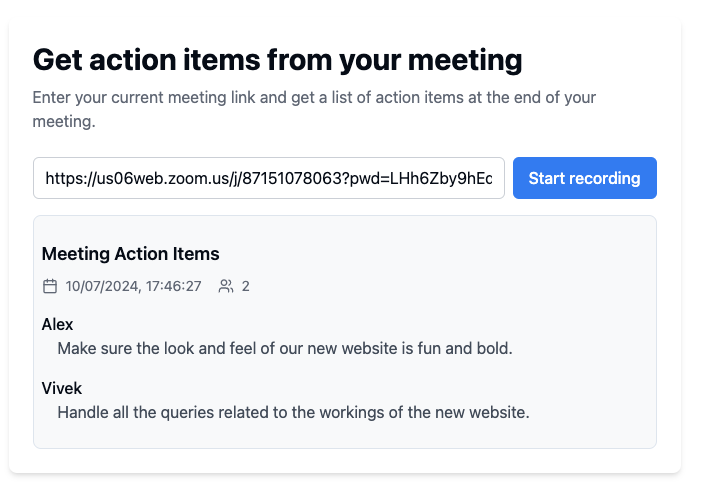
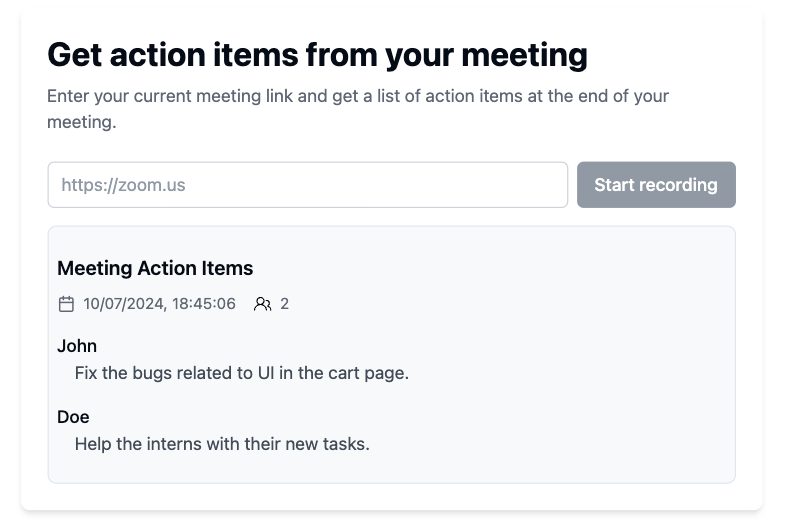
fix bugs

diff --git a/client-app/src/components/MeetingActionItems.tsx b/client-app/src/components/MeetingActionItems.tsx
@@ -67,7 +67,7 @@ interface ActionItem {
     </div>
   );
 
-const POLLING_INTERVAL = 5000; // Poll every 5 seconds
+const POLLING_INTERVAL = 10000; // Poll every 10 seconds
 
 const MeetingActionItems = () => {
   const [meetingLink, setMeetingLink] = useState('');
@@ -83,20 +83,6 @@ const MeetingActionItems = () => {
     setActionItems([]);
     try {
       const response = await axios.post(`${API_BASE_URL}/create_bot`, { meetingLink });
-    //   const x = [
-    //     { Alex: 'Take care of the portal.' },
-    //     { Alex: 'Take care of the webinar.' },
-    //     { Alex: 'Go to the city and take care of all stuff there.' },
-    //     { 'Vivek Sahu': 'Take care of all the remaining bits.' }
-    //   ]
-
-    //   const transformedArray: ActionItem[] = response.data.action_items.map((item:ActionItem) => {
-    //     const name = Object.keys(item)[0]; // Get the name (key)
-    //     const action = (item as any)[name]; // Get the action (value)
-    //     return { name, action };
-    //   });
-    //   setActionItems(transformedArray as any);
-
         await getActionItems(response.data.botId);
     } catch (err) {
       setError(err instanceof Error ? err.message : 'An unknown error occurred');
@@ -121,6 +107,7 @@ const MeetingActionItems = () => {
               });
               setActionItems(transformedArray as any);
               setIsRecording(false);
+              setMeetingLink('');
         }
         // else {
         //   setError('No data received from the API');

diff --git a/server-app/src/services/openaiService.ts b/server-app/src/services/openaiService.ts
@@ -10,7 +10,7 @@ const generateActionItems = async (transcript: string): Promise<string> => {
       model: "gpt-3.5-turbo",
       messages: [
         { role: "system", content: "You are a helpful AI assistant that provides user-wise action items using the text transcripts from meetings." },
-        { role: "user", content: `Please provide the action items for the following transcript:\n\n${transcript}. Provide response as a stringified array of JSON format: such that key of JSON is Name of person, and value is the action item for that person.` }
+        { role: "user", content: `Please provide the action items for the following transcript:\n\n${transcript}. Provide response as a stringified array of JSON format: such that key of JSON is Name of person, and value is the action item for that person. Example: [{'John': 'My Tasks'}, {'Doe': 'My other tasks'}]` }
       ],
       temperature: 0.7,
       max_tokens: 500,
